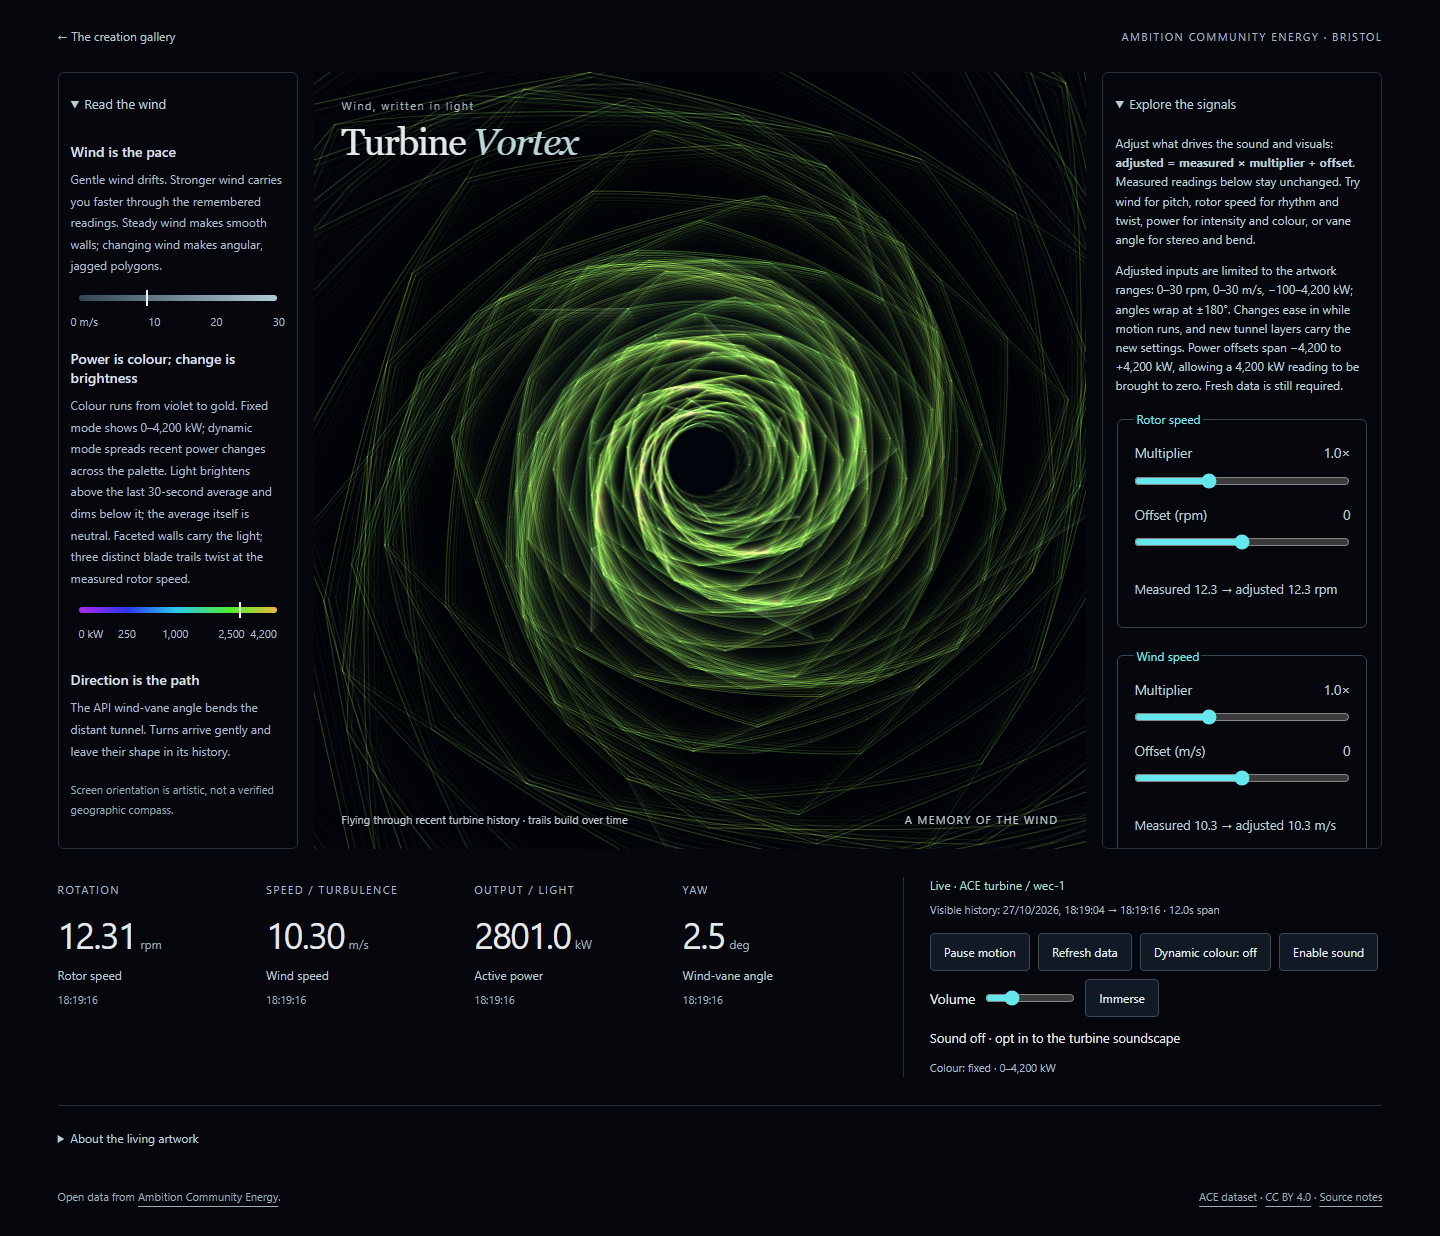
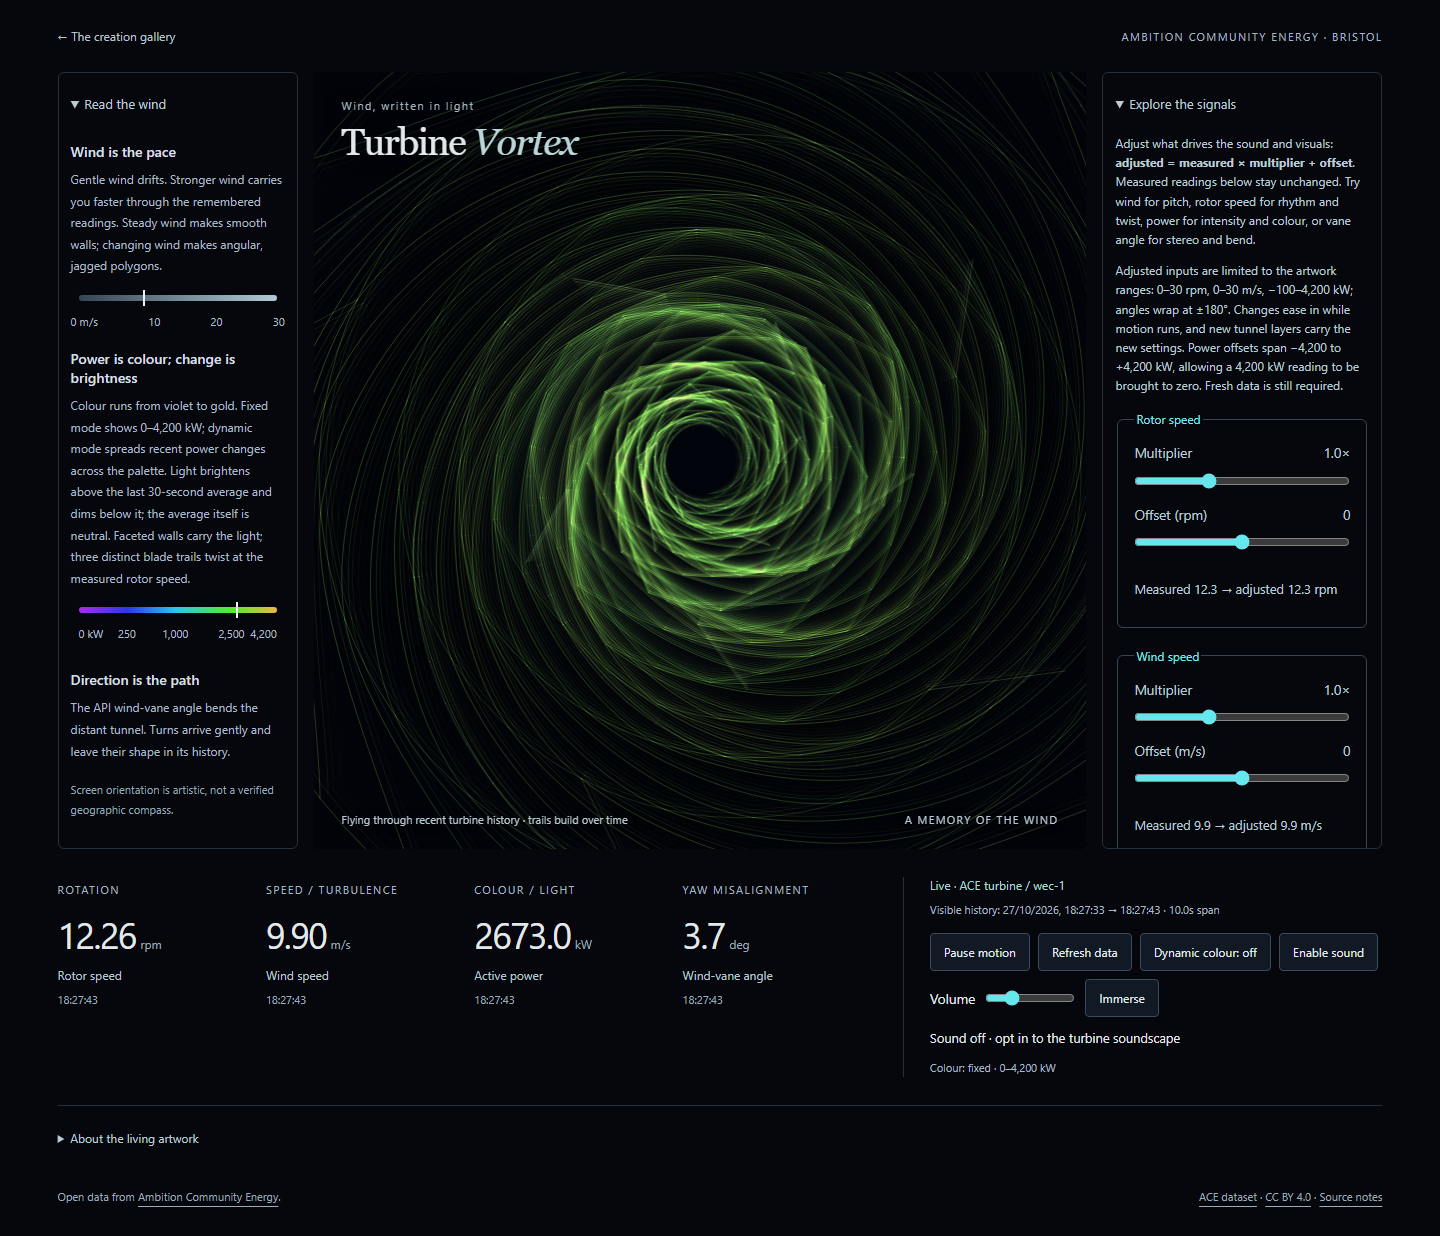
Clarify colour and yaw misalignment headings

diff --git a/site/creations/turbine-vortex/index.html b/site/creations/turbine-vortex/index.html
@@ -23,8 +23,8 @@
 <section class="instrument" aria-label="Turbine observations and artwork controls"><div class="readings">
 <div><span class="eyebrow">ROTATION</span><p><strong id="rpm">—</strong> <span>rpm</span></p><span class="label">Rotor speed</span><time id="rpm-time">No observation</time></div>
 <div><span class="eyebrow">SPEED / TURBULENCE</span><p><strong id="wind">—</strong> <span>m/s</span></p><span class="label">Wind speed</span><time id="wind-time">No observation</time></div>
-<div><span class="eyebrow">OUTPUT / LIGHT</span><p><strong id="power">—</strong> <span>kW</span></p><span class="label">Active power</span><time id="power-time">No observation</time></div>
-<div><span class="eyebrow">YAW</span><p><strong id="direction">—</strong> <span>deg</span></p><span class="label">Wind-vane angle</span><time id="direction-time">No observation</time></div>
+<div><span class="eyebrow">COLOUR / LIGHT</span><p><strong id="power">—</strong> <span>kW</span></p><span class="label">Active power</span><time id="power-time">No observation</time></div>
+<div><span class="eyebrow">YAW MISALIGNMENT</span><p><strong id="direction">—</strong> <span>deg</span></p><span class="label">Wind-vane angle</span><time id="direction-time">No observation</time></div>
 </div><div class="connection"><p id="status" role="status">Connecting to ACE…</p><p id="observed">No readings yet</p><div class="controls"><button id="pause" type="button" aria-pressed="false">Pause motion</button><button id="refresh" type="button">Refresh data</button><button id="colour-toggle" type="button" aria-pressed="false">Dynamic colour: off</button><button id="sound-toggle" type="button" aria-pressed="false">Enable sound</button><label class="sound-volume">Volume <input id="sound-volume" type="range" min="0" max="100" value="25" aria-label="Sound volume"></label><button id="fullscreen" type="button">Immerse</button></div><p id="sound-status" role="status">Sound off · opt in to the turbine soundscape</p><p id="colour-scale-status" class="colour-scale-status">Colour: fixed · 0–4,200 kW</p></div></section>
 <details class="technical-notes"><summary>About the living artwork</summary><div class="explanation"><p>Measured RPM turns three distinct blade trails, spaced 120 degrees apart, together with the polygonal walls. The three-blade motion uses the measured RPM; a separate slow artistic roll turns the whole scene. The rotor itself is hidden; this is an artistic wake, not a fluid simulation. Wind controls travel and ripples, power controls colour and streak density while its deviation from a 30-second mean controls brightness, and wind-vane angle steers the tunnel. These are artistic mappings, not a physical simulation. History builds from live readings during this visit; startup geometry uses the first reading throughout.</p><p>One combined request every two seconds. Observation timestamps come from the data, displayed in your local timezone. The visible-history span shows the oldest and newest observations still represented. Freshness uses API-relative signal ages and elapsed time since observations advance, not differences from the computer clock. If any signal is invalid, unavailable or stops advancing for over 60 seconds, the artwork rests with labelled retained readings. No simulated readings replace live data.</p><p>Immerse fills the screen. Its controls fade after six seconds of inactivity; move, tap or use the keyboard to bring them back. Connection warnings remain visible. Pause and reduced-motion support are available throughout.</p></div></details>
 <footer><span>Open data from <a href="https://ambitioncommunityenergy.org/">Ambition Community Energy</a>.</span><span><a href="https://doi.org/10.5281/zenodo.22662372">ACE dataset</a> · <a href="https://creativecommons.org/licenses/by/4.0/">CC BY 4.0</a> · <a href="./README.md">Source notes</a></span></footer>
